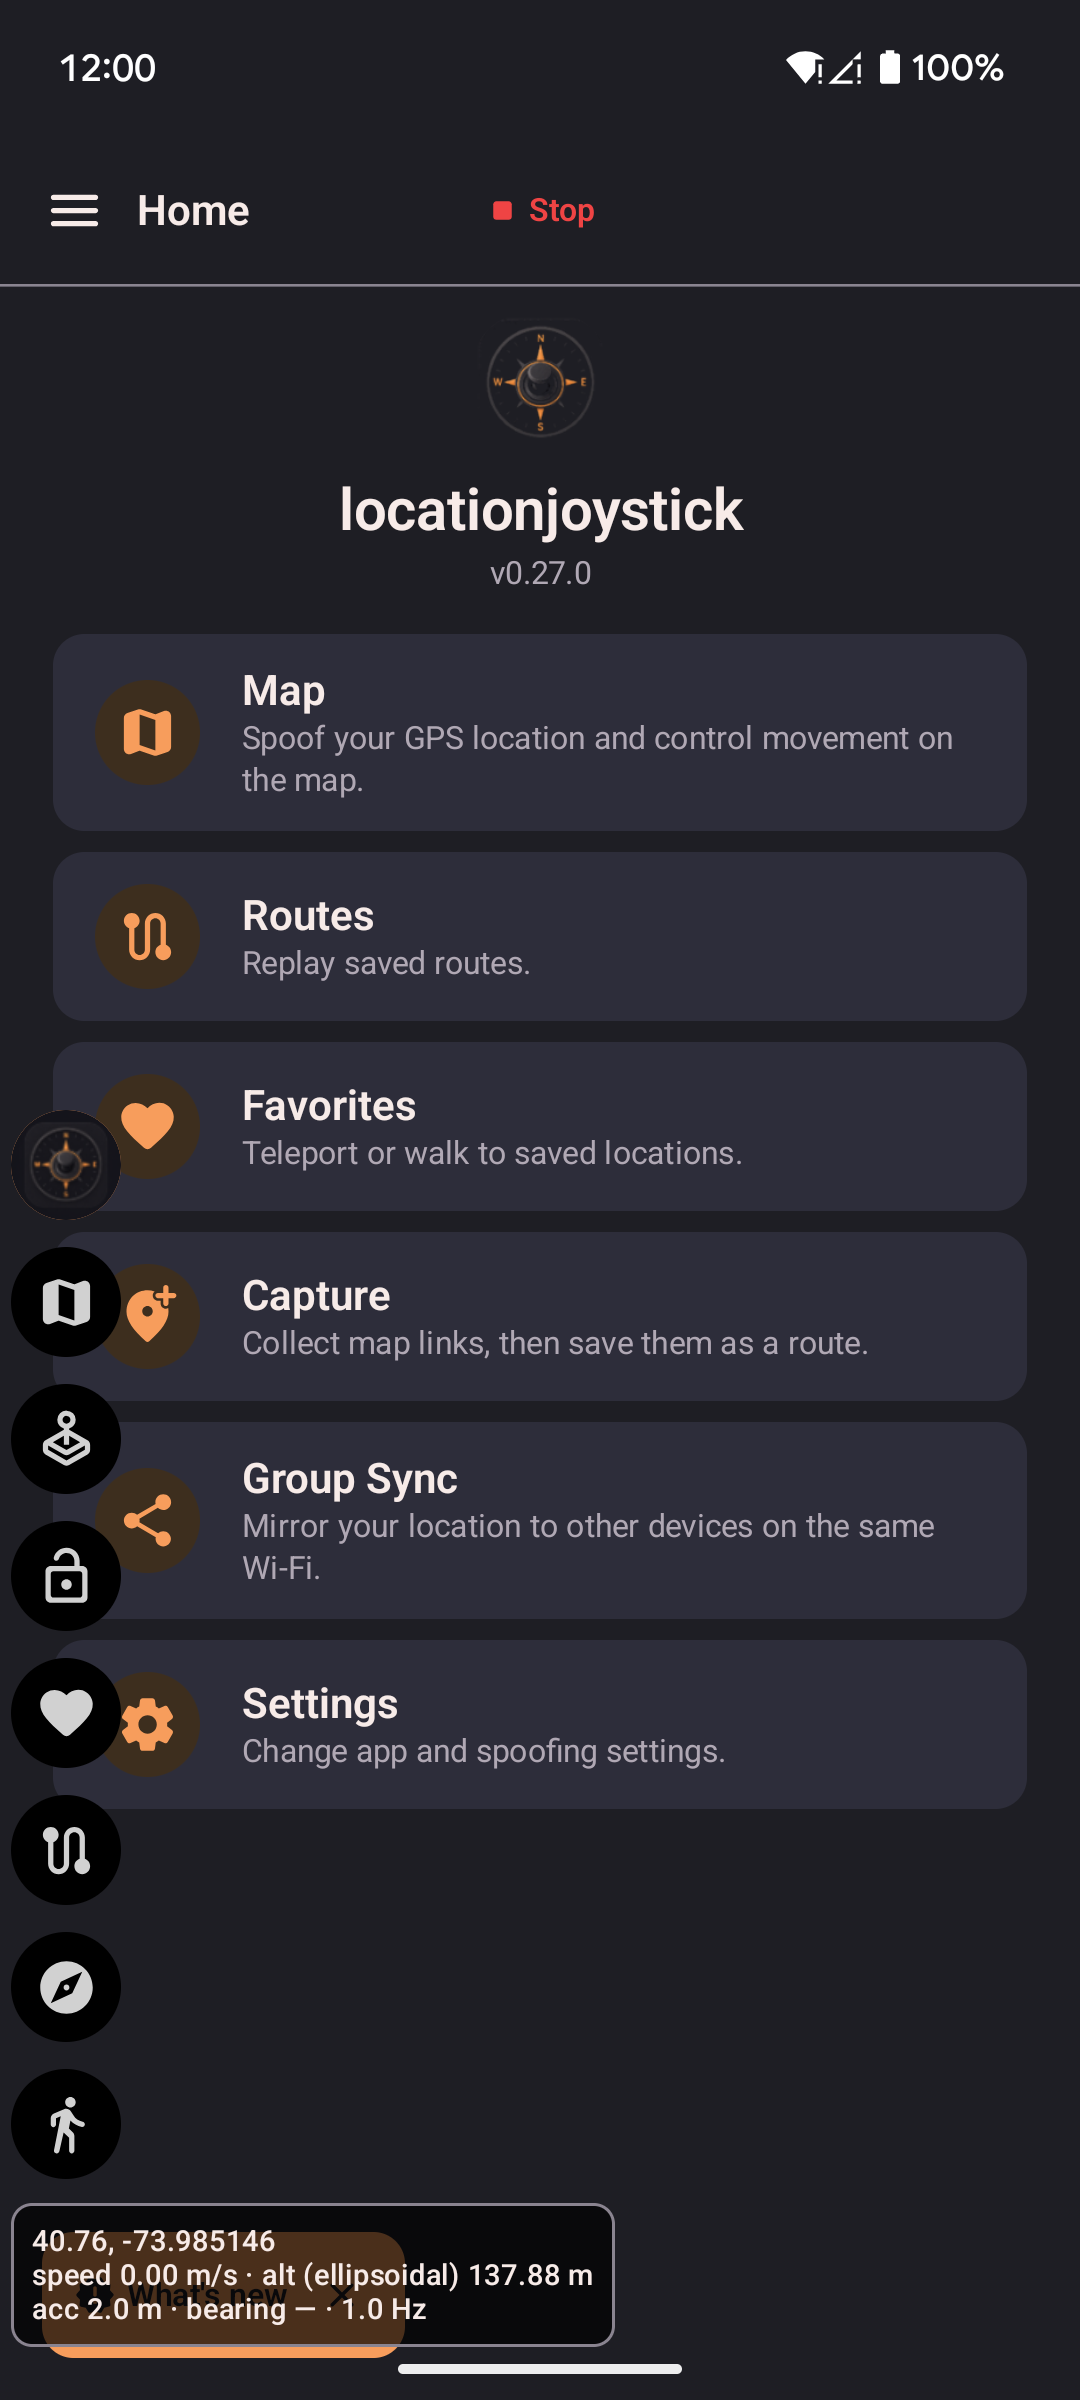
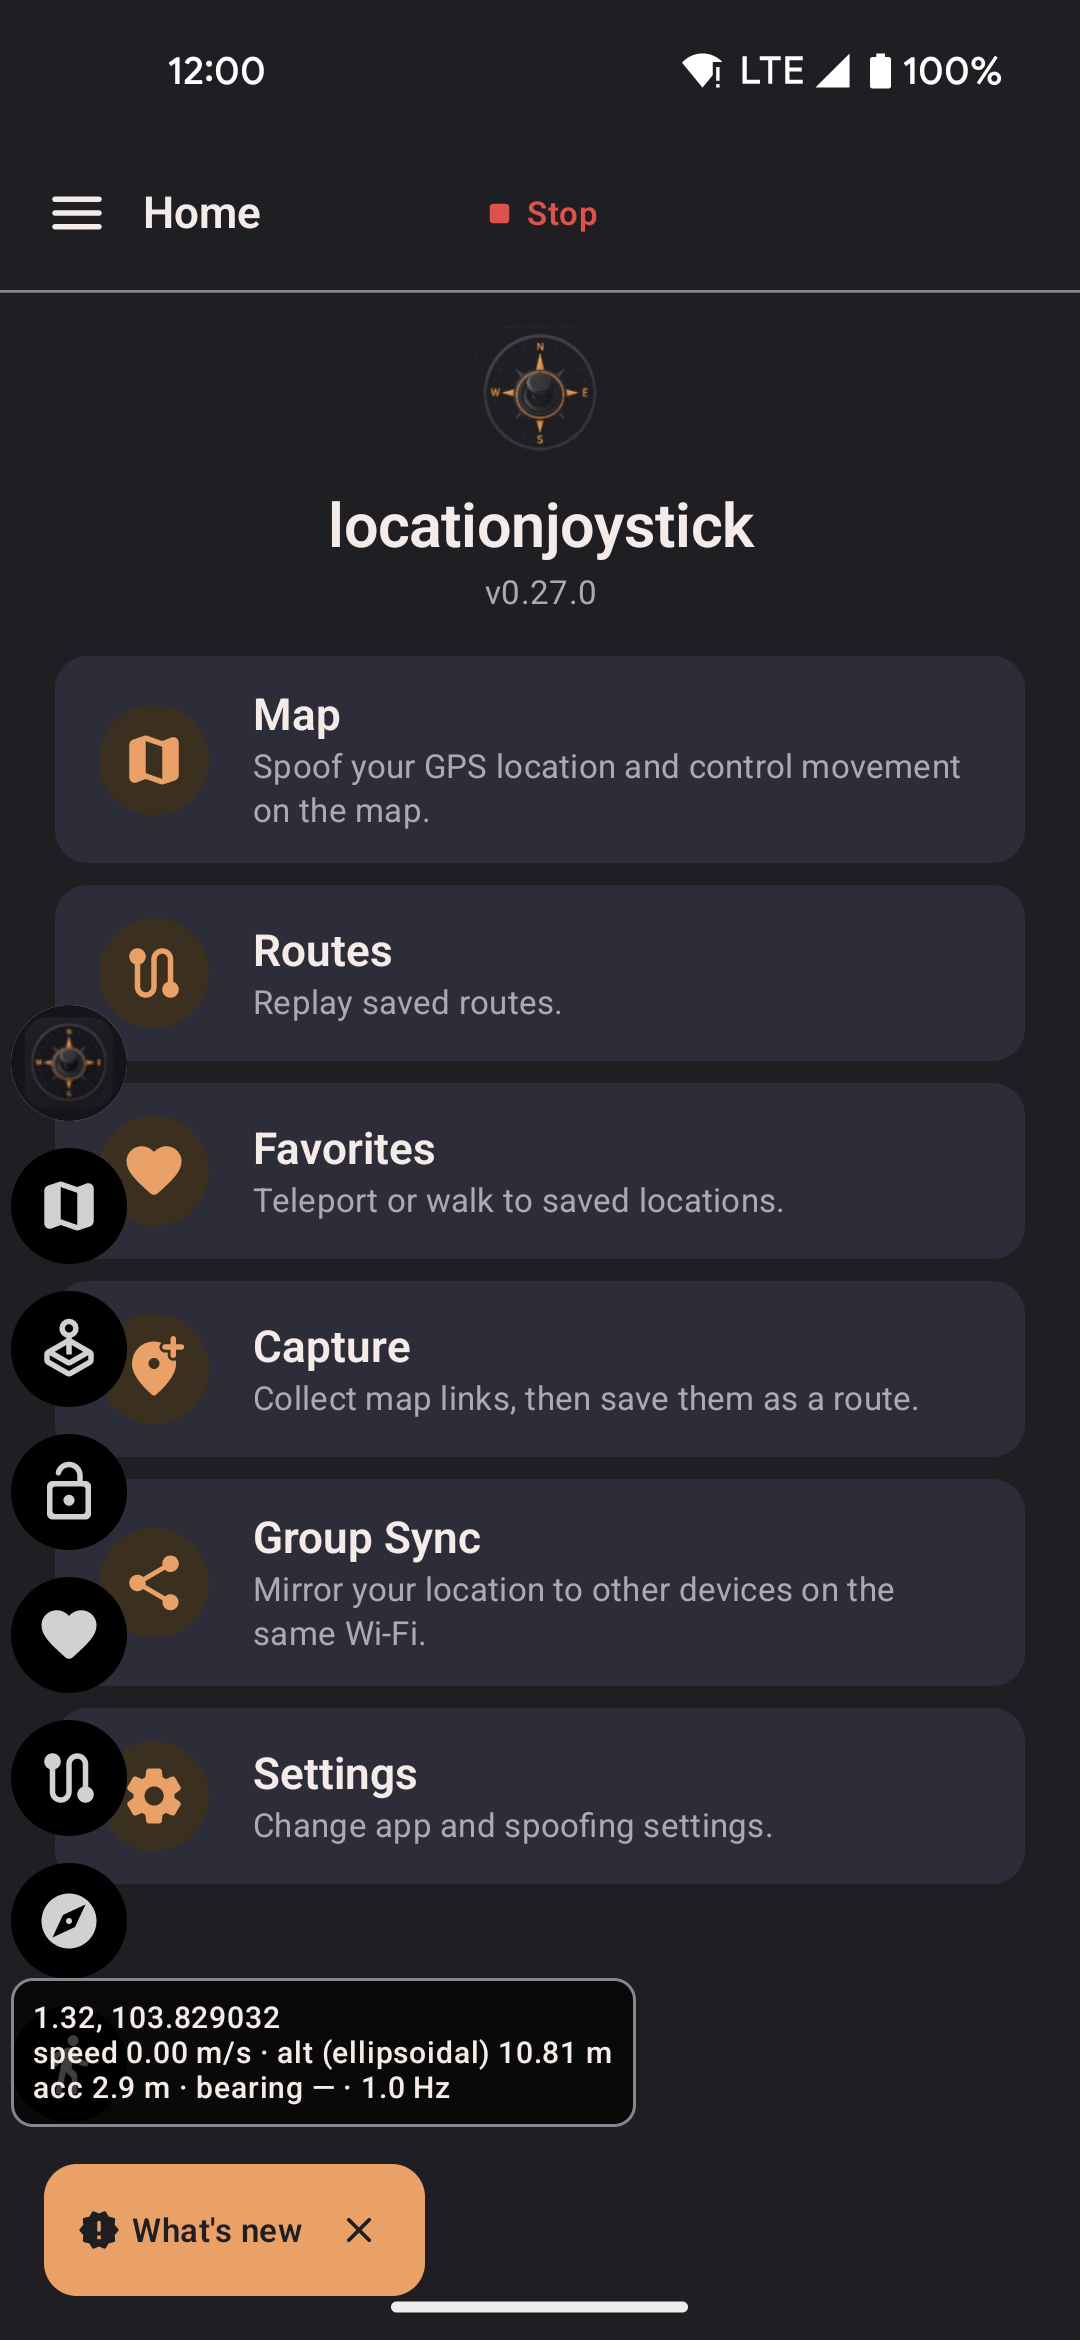
feat(settings): give Capture its own hub card and screen
Capture rows no longer live in General; the hub gets a fifth card.

diff --git a/feature/settings/impl/src/main/kotlin/com/locationjoystick/feature/settings/impl/SettingsScreen.kt b/feature/settings/impl/src/main/kotlin/com/locationjoystick/feature/settings/impl/SettingsScreen.kt
@@ -54,7 +54,7 @@ import com.locationjoystick.core.location.rememberSpoofToggleState
 import com.locationjoystick.core.model.RoamingDefaults
 import com.locationjoystick.feature.settings.impl.R
 
-private enum class SettingsSection { GPS, MENUS, GENERAL, FAVORITES_ROUTES, ROAMING }
+private enum class SettingsSection { GPS, MENUS, GENERAL, FAVORITES_ROUTES, ROAMING, CAPTURE }
 
 private sealed class PendingImport {
     data class File(
@@ -548,9 +548,9 @@ internal fun SettingsScreen(
     snackbarHost: @Composable () -> Unit = {},
     openCaptureSetup: Boolean = false,
 ) {
-    var currentSection by remember { mutableStateOf(if (openCaptureSetup) SettingsSection.GENERAL else null) }
+    var currentSection by remember { mutableStateOf(if (openCaptureSetup) SettingsSection.CAPTURE else null) }
     // Opened from the Capture screen: Back returns there, not to the settings hub.
-    val atRoot = currentSection == null || (openCaptureSetup && currentSection == SettingsSection.GENERAL)
+    val atRoot = currentSection == null || (openCaptureSetup && currentSection == SettingsSection.CAPTURE)
     var pendingUnsavedIntent by remember { mutableStateOf<PendingUnsavedIntent?>(null) }
 
     val guardedBack = {
@@ -656,8 +656,6 @@ internal fun SettingsScreen(
                 onToggleSpoofing = guardedToggleSpoofing,
                 locationLabel = locationLabel,
                 onAction = onAction,
-                launchableApps = launchableApps,
-                scrollToCapture = openCaptureSetup,
                 bottomBar = bottomBar,
                 snackbarHost = snackbarHost,
             )
@@ -687,6 +685,20 @@ internal fun SettingsScreen(
                 onToggleSpoofing = guardedToggleSpoofing,
                 locationLabel = locationLabel,
                 onAction = onAction,
+                bottomBar = bottomBar,
+                snackbarHost = snackbarHost,
+            )
+        }
+
+        SettingsSection.CAPTURE -> {
+            SettingsCaptureSubScreen(
+                uiState = uiState,
+                onNavigateBack = guardedBack,
+                isSpoofing = isSpoofing,
+                onToggleSpoofing = guardedToggleSpoofing,
+                locationLabel = locationLabel,
+                onAction = onAction,
+                launchableApps = launchableApps,
                 bottomBar = bottomBar,
                 snackbarHost = snackbarHost,
             )
@@ -813,6 +825,12 @@ private fun SettingsHubScreen(
                         title = stringResource(R.string.settings_hub_roaming),
                         description = stringResource(R.string.settings_hub_roaming_desc),
                         onClick = { onNavigate(SettingsSection.ROAMING) },
+                    ),
+                    DestinationCardSpec(
+                        icon = LjIcons.Link,
+                        title = stringResource(R.string.settings_hub_capture),
+                        description = stringResource(R.string.settings_hub_capture_desc),
+                        onClick = { onNavigate(SettingsSection.CAPTURE) },
                     ),
                 ),
         )

diff --git a/feature/settings/impl/src/main/kotlin/com/locationjoystick/feature/settings/impl/SettingsCaptureSubScreen.kt b/feature/settings/impl/src/main/kotlin/com/locationjoystick/feature/settings/impl/SettingsCaptureSubScreen.kt
@@ -1,0 +1,58 @@
+package com.locationjoystick.feature.settings.impl
+
+import androidx.compose.foundation.ScrollState
+import androidx.compose.foundation.layout.Box
+import androidx.compose.foundation.layout.Column
+import androidx.compose.foundation.layout.fillMaxSize
+import androidx.compose.foundation.layout.padding
+import androidx.compose.foundation.verticalScroll
+import androidx.compose.material3.CircularProgressIndicator
+import androidx.compose.runtime.Composable
+import androidx.compose.runtime.remember
+import androidx.compose.ui.Alignment
+import androidx.compose.ui.Modifier
+import androidx.compose.ui.res.stringResource
+import com.locationjoystick.core.designsystem.LjIcons
+import com.locationjoystick.core.designsystem.component.LjScaffold
+import com.locationjoystick.feature.settings.impl.R
+
+@Composable
+internal fun SettingsCaptureSubScreen(
+    uiState: SettingsUiState,
+    onNavigateBack: () -> Unit,
+    isSpoofing: Boolean,
+    onToggleSpoofing: () -> Unit,
+    locationLabel: String? = null,
+    onAction: (SettingsAction) -> Unit,
+    launchableApps: List<InstalledApp> = emptyList(),
+    bottomBar: @Composable () -> Unit,
+    snackbarHost: @Composable () -> Unit,
+) {
+    LjScaffold(
+        title = stringResource(R.string.settings_menus_capture),
+        isSpoofing = isSpoofing,
+        onToggleSpoofing = onToggleSpoofing,
+        locationLabel = locationLabel,
+        onNavigationClick = onNavigateBack,
+        navigationIcon = LjIcons.ArrowBack,
+        bottomBar = bottomBar,
+        snackbarHost = snackbarHost,
+        floatingActionButton = { SettingsSaveDiscardFab(uiState.isDirty, onAction) },
+    ) { paddingValues ->
+        Box(modifier = Modifier.fillMaxSize().padding(paddingValues)) {
+            if (uiState.isLoading) {
+                CircularProgressIndicator(modifier = Modifier.align(Alignment.Center))
+            } else {
+                Column(
+                    modifier =
+                        Modifier
+                            .fillMaxSize()
+                            .verticalScroll(remember { ScrollState(0) })
+                            .padding(settingsScrollPadding()),
+                ) {
+                    CaptureSection(uiState, onAction, launchableApps)
+                }
+            }
+        }
+    }
+}

diff --git a/feature/settings/impl/src/main/kotlin/com/locationjoystick/feature/settings/impl/SettingsGeneralSubScreen.kt b/feature/settings/impl/src/main/kotlin/com/locationjoystick/feature/settings/impl/SettingsGeneralSubScreen.kt
@@ -12,8 +12,6 @@ import androidx.compose.foundation.layout.fillMaxWidth
 import androidx.compose.foundation.layout.height
 import androidx.compose.foundation.layout.padding
 import androidx.compose.foundation.layout.width
-import androidx.compose.foundation.relocation.BringIntoViewRequester
-import androidx.compose.foundation.relocation.bringIntoViewRequester
 import androidx.compose.foundation.verticalScroll
 import androidx.compose.material3.Card
 import androidx.compose.material3.CircularProgressIndicator
@@ -23,7 +21,6 @@ import androidx.compose.material3.Icon
 import androidx.compose.material3.MaterialTheme
 import androidx.compose.material3.Text
 import androidx.compose.runtime.Composable
-import androidx.compose.runtime.LaunchedEffect
 import androidx.compose.runtime.getValue
 import androidx.compose.runtime.mutableStateOf
 import androidx.compose.runtime.remember
@@ -59,16 +56,9 @@ internal fun SettingsGeneralSubScreen(
     onToggleSpoofing: () -> Unit,
     locationLabel: String? = null,
     onAction: (SettingsAction) -> Unit,
-    launchableApps: List<InstalledApp> = emptyList(),
-    scrollToCapture: Boolean = false,
     bottomBar: @Composable () -> Unit,
     snackbarHost: @Composable () -> Unit,
 ) {
-    val captureBringIntoView = remember { BringIntoViewRequester() }
-    LaunchedEffect(scrollToCapture, uiState.isLoading) {
-        if (scrollToCapture && !uiState.isLoading) captureBringIntoView.bringIntoView()
-    }
-
     LjScaffold(
         title = stringResource(R.string.settings_general_general),
         isSpoofing = isSpoofing,
@@ -109,8 +99,6 @@ internal fun SettingsGeneralSubScreen(
                         GeocodingSection(uiState, onAction)
                         SettingsSectionDivider()
                         PrivacySection(uiState, onAction)
-                        SettingsSectionDivider()
-                        CaptureSection(uiState, onAction, launchableApps, Modifier.bringIntoViewRequester(captureBringIntoView))
                         SettingsSectionDivider()
                         DebugSection(uiState, onAction)
                     }

diff --git a/app/src/androidTest/kotlin/com/locationjoystick/app/smoke/SettingsSmokeTest.kt b/app/src/androidTest/kotlin/com/locationjoystick/app/smoke/SettingsSmokeTest.kt
@@ -1,6 +1,8 @@
 package com.locationjoystick.app.smoke
 
 import androidx.compose.ui.test.assertIsDisplayed
+import androidx.compose.ui.test.onAllNodesWithText
+import androidx.compose.ui.test.onFirst
 import androidx.compose.ui.test.onNodeWithContentDescription
 import androidx.compose.ui.test.onNodeWithText
 import androidx.compose.ui.test.performClick
@@ -25,12 +27,14 @@ class SettingsSmokeTest : BaseSmokeTest() {
     }
 
     @Test
-    fun settings_hub_order_is_general_gps_menus_favorites_roaming() {
-        val labels = listOf("General", "Movement & GPS", "Menus", "Favorites & Routes", "Roaming")
+    fun settings_hub_order_is_general_gps_menus_favorites_roaming_capture() {
+        val labels = listOf("General", "Movement & GPS", "Menus", "Favorites & Routes", "Roaming", "Capture")
         val tops =
             labels.map {
+                // The drawer also has a "Capture" tab; the hub card comes first.
                 composeRule
-                    .onNodeWithText(it)
+                    .onAllNodesWithText(it)
+                    .onFirst()
                     .fetchSemanticsNode()
                     .boundsInRoot.top
             }
@@ -132,5 +136,12 @@ class SettingsSmokeTest : BaseSmokeTest() {
         composeRule.onNodeWithText("Roaming").performClick()
         composeRule.waitForIdle()
         composeRule.onNodeWithText("Starting radius (m)").performScrollTo().assertIsDisplayed()
+    }
+
+    @Test
+    fun settings_shows_capture_section() {
+        composeRule.onAllNodesWithText("Capture").onFirst().performClick()
+        composeRule.waitForIdle()
+        composeRule.onNodeWithText("Collects map links", substring = true).performScrollTo().assertIsDisplayed()
     }
 }

diff --git a/docs/wiki/capture.html b/docs/wiki/capture.html
@@ -48,7 +48,7 @@
       <img class="phone-shot" src="screenshots/22_capture_coordinates.png" alt="Capture screen showing the one-time setup steps">
     </aside>
     <p>
-      Setup lives in <strong>Settings &gt; General &gt; Capture</strong>.
+      Setup lives in <strong>Settings &gt; Capture</strong>.
       Until this app is your default browser, the Capture page shows an <strong>Open Capture setup</strong> button.
       Tap it, then follow the steps in order.
     </p>
@@ -86,7 +86,7 @@
       Google Maps links open in Maps first. Other links open in the browser you chose with <strong>Pass-through</strong>.
     </p>
     <p>
-      To land back in your game after a link, open <strong>Settings &gt; General &gt; Capture</strong>.
+      To land back in your game after a link, open <strong>Settings &gt; Capture</strong>.
       Tap <strong>After a map link, open</strong> and pick the app.
       It opens after a Jump, or after you choose Teleport or Walk in the popup. The default is <strong>None</strong>.
     </p>
@@ -125,7 +125,7 @@
 
     <h2 id="turn-off-capture">Turn off Capture</h2>
     <p>
-      Open <strong>Settings &gt; General &gt; Capture</strong> and tap <strong>Restore default browser</strong>.
+      Open <strong>Settings &gt; Capture</strong> and tap <strong>Restore default browser</strong>.
       Tick the confirm box and tap <strong>Restore</strong>.
     </p>
     <p>

diff --git a/docs/wiki/settings.html b/docs/wiki/settings.html
@@ -76,9 +76,6 @@
     <p><strong>Default:</strong> Off</p>
     <p>A tap on the floating map walks there at once, with no popup. See <a href="overlays.html#floating-map-quick-walk">Overlays</a>.</p>
 
-    <h3 id="capture">Capture</h3>
-    <p>Capture setup, the on/off switch, the browser choice, and the app to open after a map link. See <a href="capture.html#set-up-capture">Capture</a> for each step.</p>
-
     <section class="has-shot">
     <h3 id="debug-stats">Debug stats</h3>
     <aside class="shot" id="debug-stats-shot">
@@ -284,6 +281,9 @@
 
     <p>Once roaming starts, changing speed in the app or widget overrides the starting speed.</p>
     </section>
+
+    <h2 id="capture">Capture</h2>
+    <p>Capture setup, the on/off switch, the browser choice, and the app to open after a map link. See <a href="capture.html#set-up-capture">Capture</a> for each step.</p>
 
     <h2 id="external-services">External services</h2>
     <p>The app is offline-first and needs no account. Each service is used only while its feature is active, except map images, which load whenever a map is shown.</p>

diff --git a/feature/settings/impl/src/main/kotlin/com/locationjoystick/feature/settings/impl/SettingsCaptureSection.kt b/feature/settings/impl/src/main/kotlin/com/locationjoystick/feature/settings/impl/SettingsCaptureSection.kt
@@ -105,8 +105,6 @@ internal fun CaptureSection(
     }
 
     Column(modifier = modifier) {
-        SettingsSectionHeader(stringResource(R.string.settings_menus_capture))
-        Spacer(Modifier.height(4.dp))
         Text(
             stringResource(R.string.settings_menus_capture_desc),
             style = MaterialTheme.typography.bodySmall,
